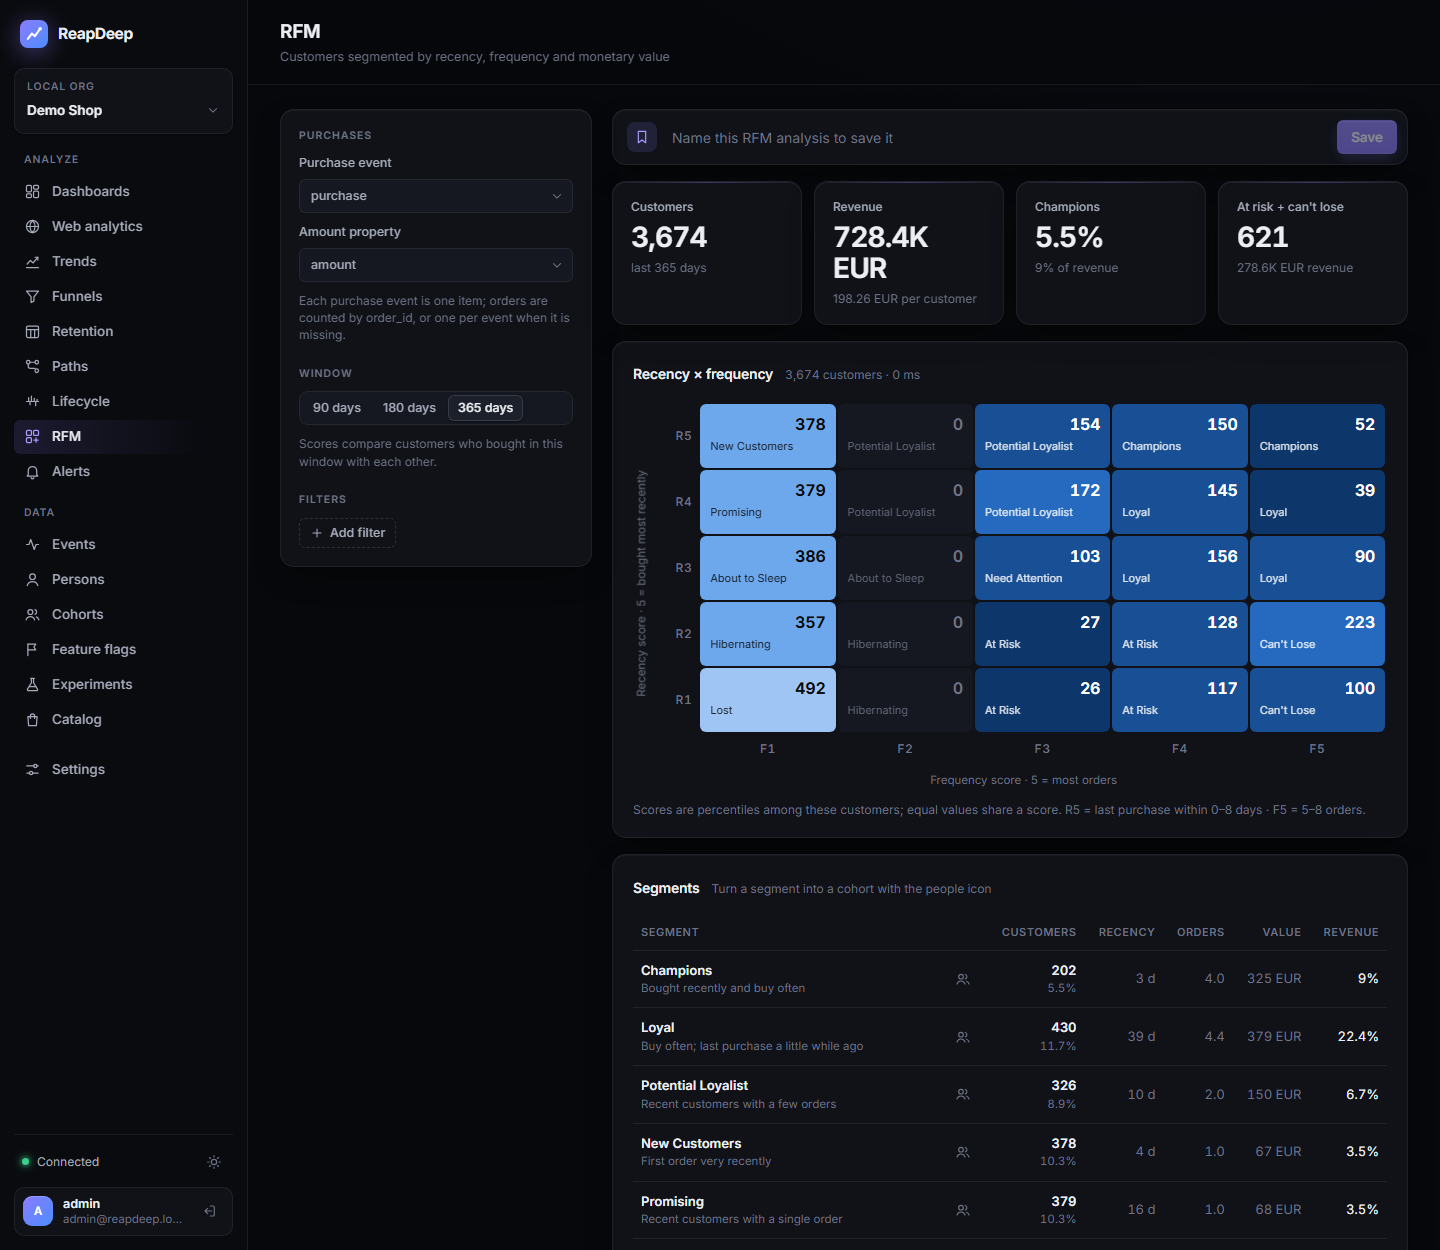
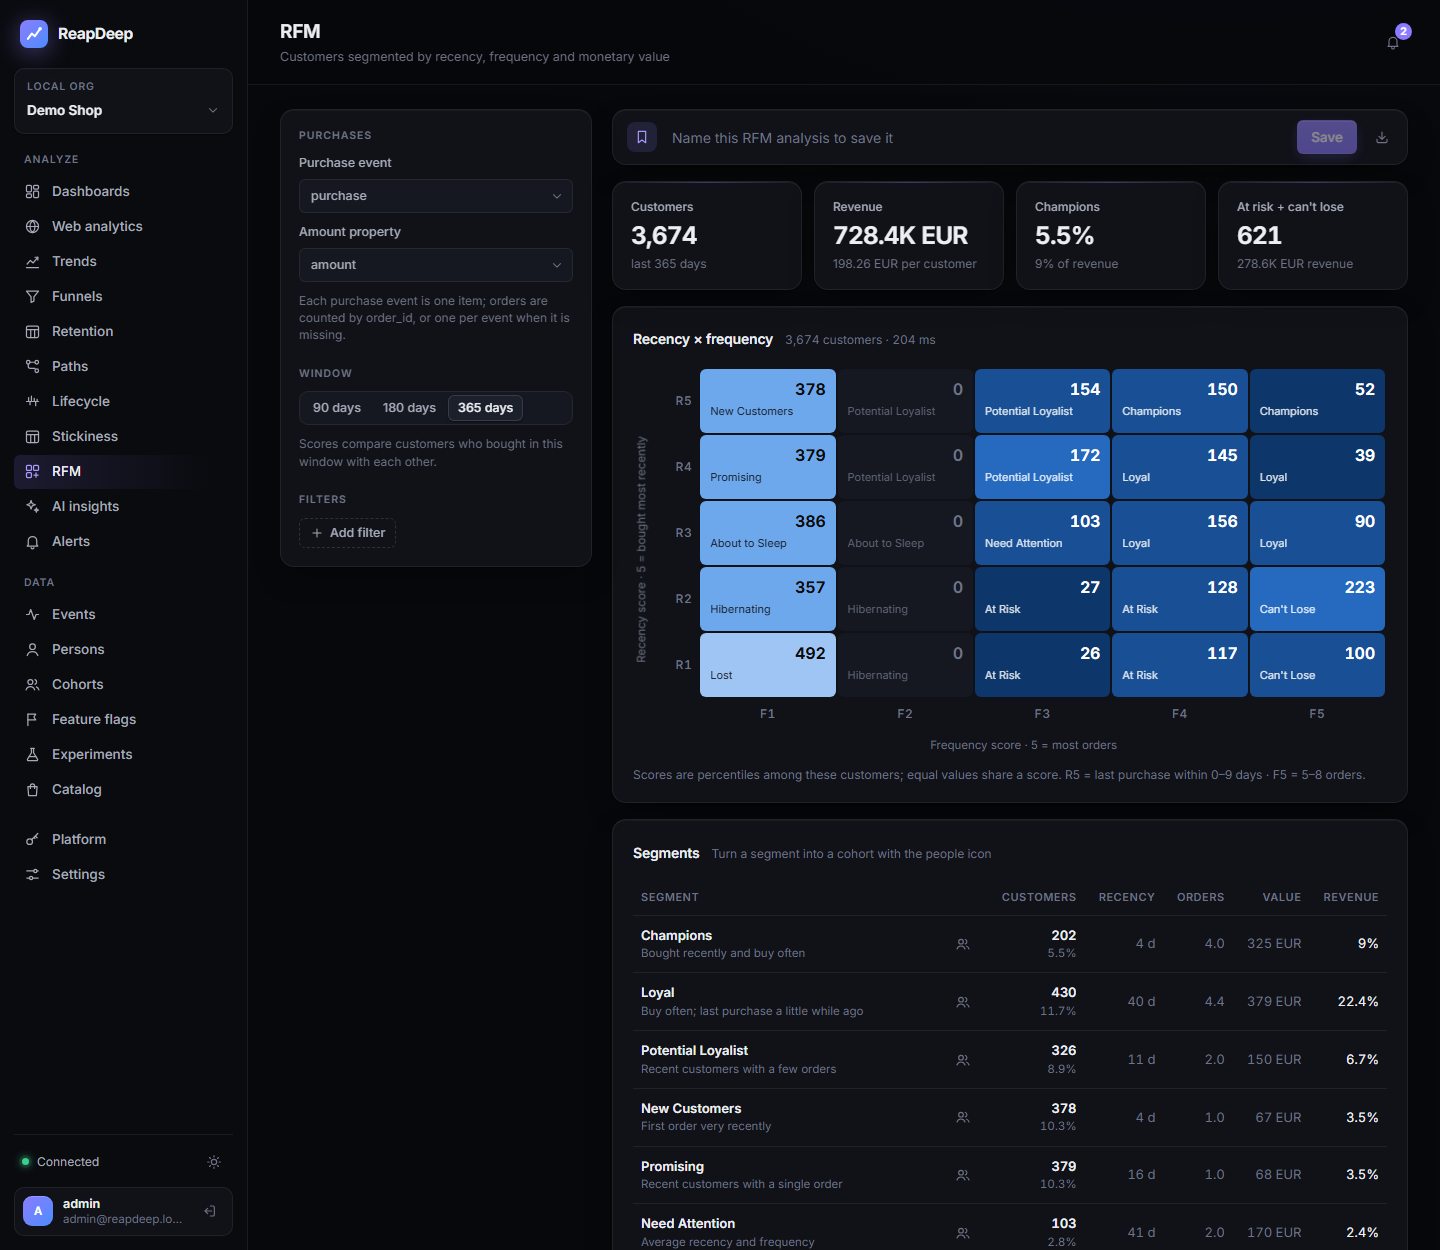
Polish dashboard layout and refresh stale docs
Keep the sidebar usable at 900 px, stop RFM amounts and catalog labels from wrapping badly, and refresh the affected README screenshots. Update architecture limits that no longer match the implementation.

diff --git a/dashboard/src/styles/components.css b/dashboard/src/styles/components.css
@@ -17,8 +17,11 @@
 .footnote { margin-top: 12px; color: var(--muted); font-size: 12px; }
 
 .stats { display: grid; grid-template-columns: repeat(auto-fit, minmax(180px, 1fr)); gap: 12px; }
+.stats.models { grid-template-columns: repeat(auto-fit, minmax(150px, 1fr)); }
+.stats.models .stat-label { white-space: normal; line-height: 1.25; }
+.stats.models .stat-hint { white-space: normal; display: -webkit-box; -webkit-line-clamp: 2; -webkit-box-orient: vertical; }
 .stat {
-  position: relative; overflow: hidden;
+  position: relative; overflow: hidden; container-type: inline-size;
   padding: 16px 18px;
   background: var(--surface);
   border: 1px solid var(--border);
@@ -32,7 +35,7 @@
 }
 .stat-label { display: flex; align-items: center; gap: 7px; color: var(--text-2); font-size: 12px; font-weight: 500; overflow: hidden; text-overflow: ellipsis; white-space: nowrap; }
 .stat-label .swatch { margin: 0; }
-.stat-value { margin-top: 6px; font-size: 28px; font-weight: 650; letter-spacing: -0.03em; line-height: 1.1; font-variant-numeric: tabular-nums; }
+.stat-value { margin-top: 6px; font-size: clamp(22px, 16cqi, 28px); font-weight: 650; letter-spacing: -0.03em; line-height: 1.1; font-variant-numeric: tabular-nums; }
 .stat-hint { margin-top: 6px; color: var(--muted); font-size: 12px; overflow: hidden; text-overflow: ellipsis; white-space: nowrap; }
 
 .segmented {

diff --git a/dashboard/src/styles/layout.css b/dashboard/src/styles/layout.css
@@ -28,7 +28,7 @@
 .select-wrap > .icon-svg { position: absolute; right: 9px; pointer-events: none; color: var(--muted); }
 .project-switch .select-wrap > .icon-svg { right: 0; }
 
-.nav { display: flex; flex-direction: column; gap: 16px; flex: 1; overflow-y: auto; }
+.nav { display: flex; flex-direction: column; gap: 16px; flex: 1; min-height: 0; overflow-y: auto; overscroll-behavior: contain; }
 .nav-group { display: flex; flex-direction: column; gap: 1px; }
 .nav-label { padding: 0 10px 6px; font-size: 10.5px; font-weight: 600; letter-spacing: 0.08em; text-transform: uppercase; color: var(--muted); }
 .nav-item {
@@ -124,6 +124,17 @@ main { padding: 24px 32px 48px; width: 100%; max-width: 1680px; margin: 0 auto; 
 @media (max-width: 1100px) {
   .layout, .split { grid-template-columns: minmax(0, 1fr); }
   .panel { position: static; max-height: none; }
+}
+
+@media (min-width: 861px) and (max-height: 980px) {
+  .sidebar { gap: 12px; padding-top: 14px; }
+  .sidebar-brand { padding: 0 6px; }
+  .project-switch { padding: 8px 12px; }
+  .nav { gap: 10px; }
+  .nav-group { gap: 0; }
+  .nav-label { padding-bottom: 3px; }
+  .nav-item { height: 30px; }
+  .sidebar-foot { gap: 8px; padding-top: 10px; }
 }
 
 @media (max-width: 860px) {

diff --git a/dashboard/src/features/catalog/Catalog.tsx b/dashboard/src/features/catalog/Catalog.tsx
@@ -36,7 +36,7 @@ function Overview({ version }: { version: number }) {
   const runs = new Map((models.data?.models ?? []).map((m) => [m.model, m]))
   return (
     <>
-      <div className="stats">
+      <div className="stats models">
         {MODELS.map((m) => <ModelTile key={m.id} label={m.label} description={m.description} run={runs.get(m.id)} />)}
       </div>
       <Quality />

diff --git a/docs/architecture.md b/docs/architecture.md
@@ -15,8 +15,9 @@ The [README](../README.md) covers setup and usage.
 | Trend query | p95 < 1 s (30 days, project with 100M events/month) | 110 ms totals, ~1.1 s unique users |
 | Funnel query | p95 < 3 s (same data) | 4.1 s exact, 0.8-1.2 s sampled |
 
-Other constraints: multi-tenant from day one, only MIT or Apache 2.0 code dependencies (no AGPL or BSL,
-which rules out MinIO, Redpanda and k6; the dashboard font, Inter, is SIL OFL 1.1), data stored in a single region, events kept for one year.
+Other constraints: multi-tenant from day one, permissively licensed code dependencies only (MIT, Apache 2.0,
+BSD-2-Clause and the PostgreSQL License; no AGPL or BSL, which rules out MinIO, Redpanda and k6; the dashboard
+font, Inter, is SIL OFL 1.1), data stored in a single region, events kept for one year.
 
 ## 2. Components
 
@@ -527,7 +528,11 @@ unit tests on every push.
 ## 11. Known limits and what production would need
 
 - Multi-node StarRocks and Kafka replication, then a repeat of the benchmark.
-- Observability: metrics for ingestion latency, Kafka lag, Routine Load errors and the deletion job.
-- Sessions and API keys are cached in Redis and every access change deletes the cached entries, so
-  revocations apply on all Query API instances at once; without Redis every request reads PostgreSQL.
-- No invitation or password reset emails.
+- Observability exists for the local stack (OTLP to Grafana, a provisioned dashboard, health checks and a
+  Routine Load watchdog), but production would need an external collector, long-term storage, paging and
+  retention policies.
+- Redis carries the session and API-key cache, request quotas and the result cache. It is optional: without
+  it every Query API instance reads PostgreSQL and counts quotas on its own, results are not cached, and
+  ingestion stops enforcing the per-project event quota.
+- Invitation and password reset e-mails need SMTP. Without it managers share single-use links themselves
+  and "Forgot your password?" answers `503`.
